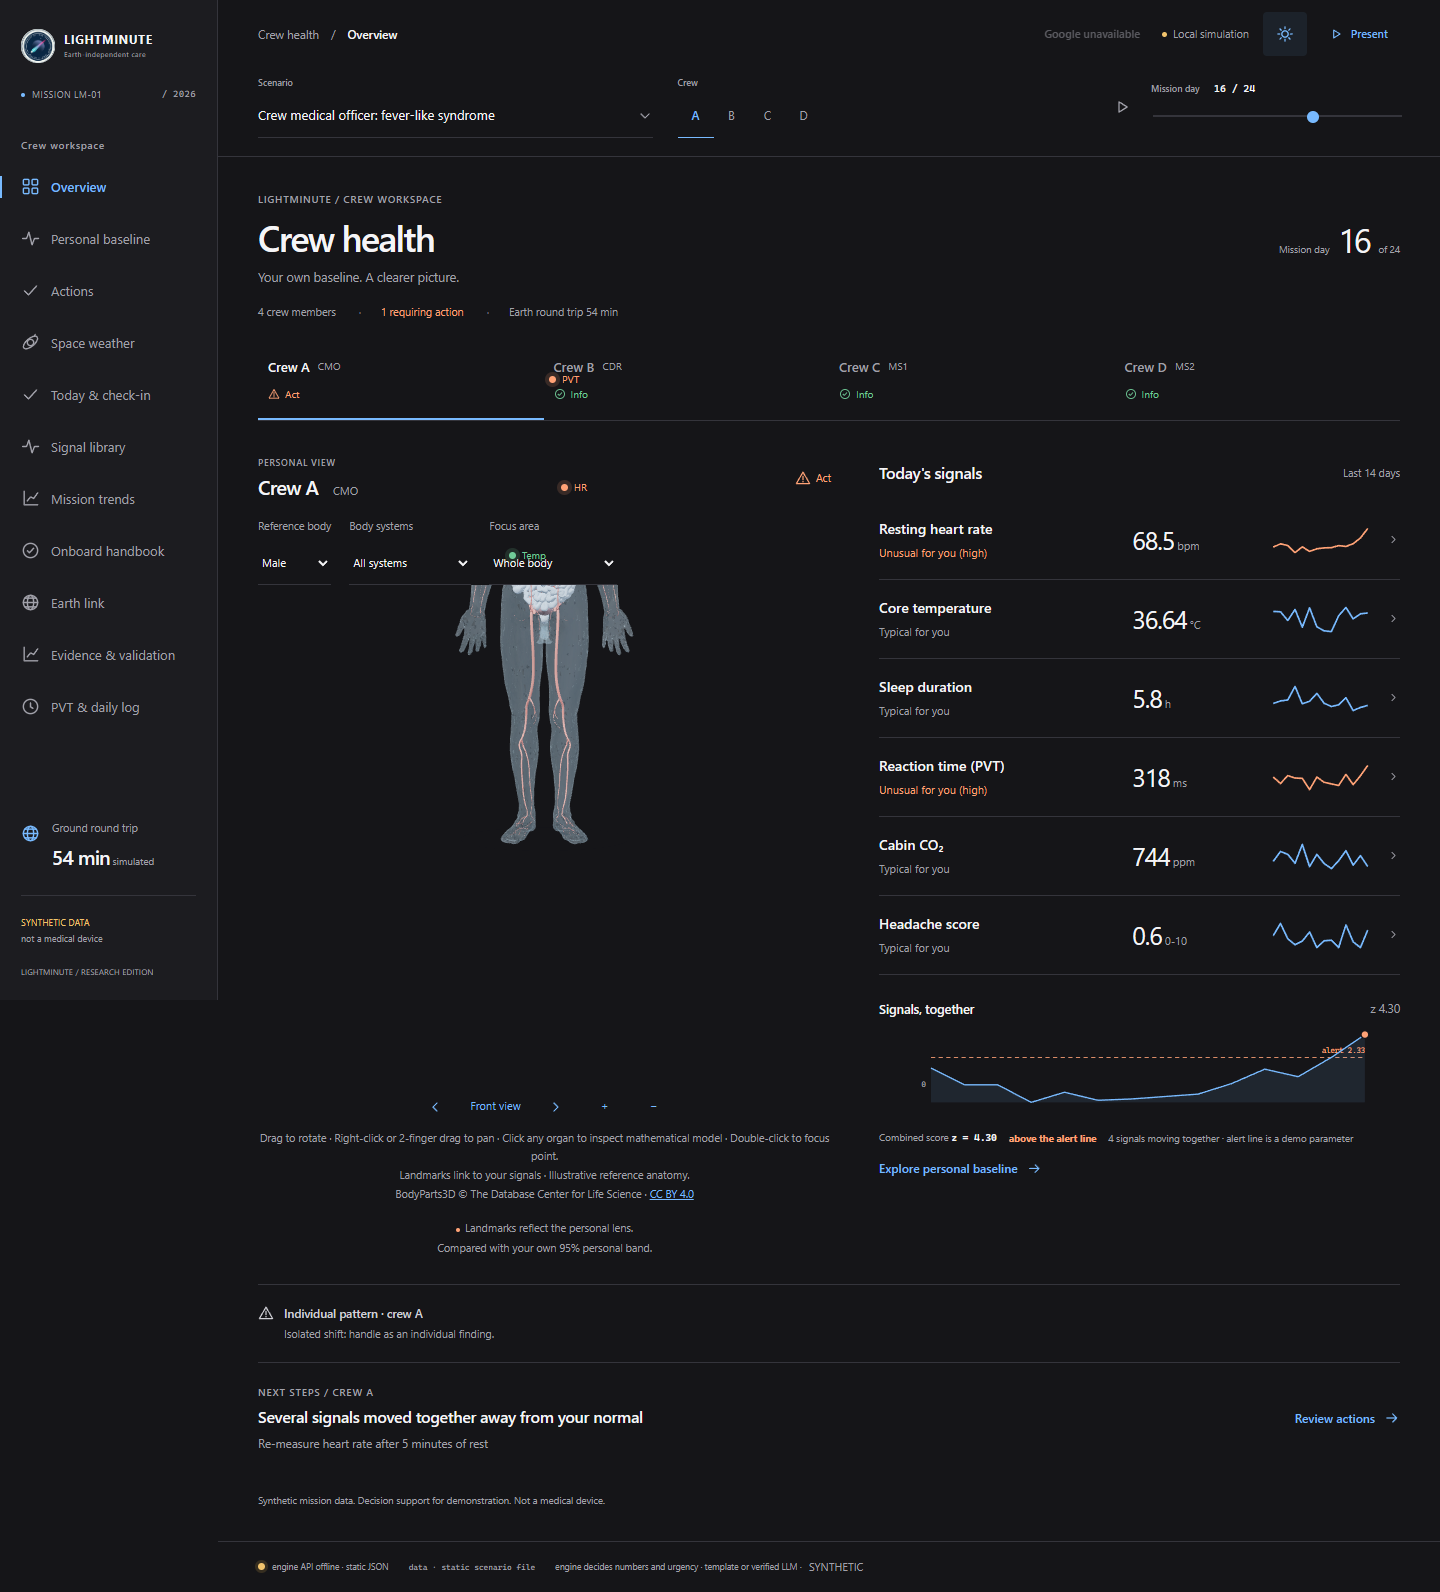
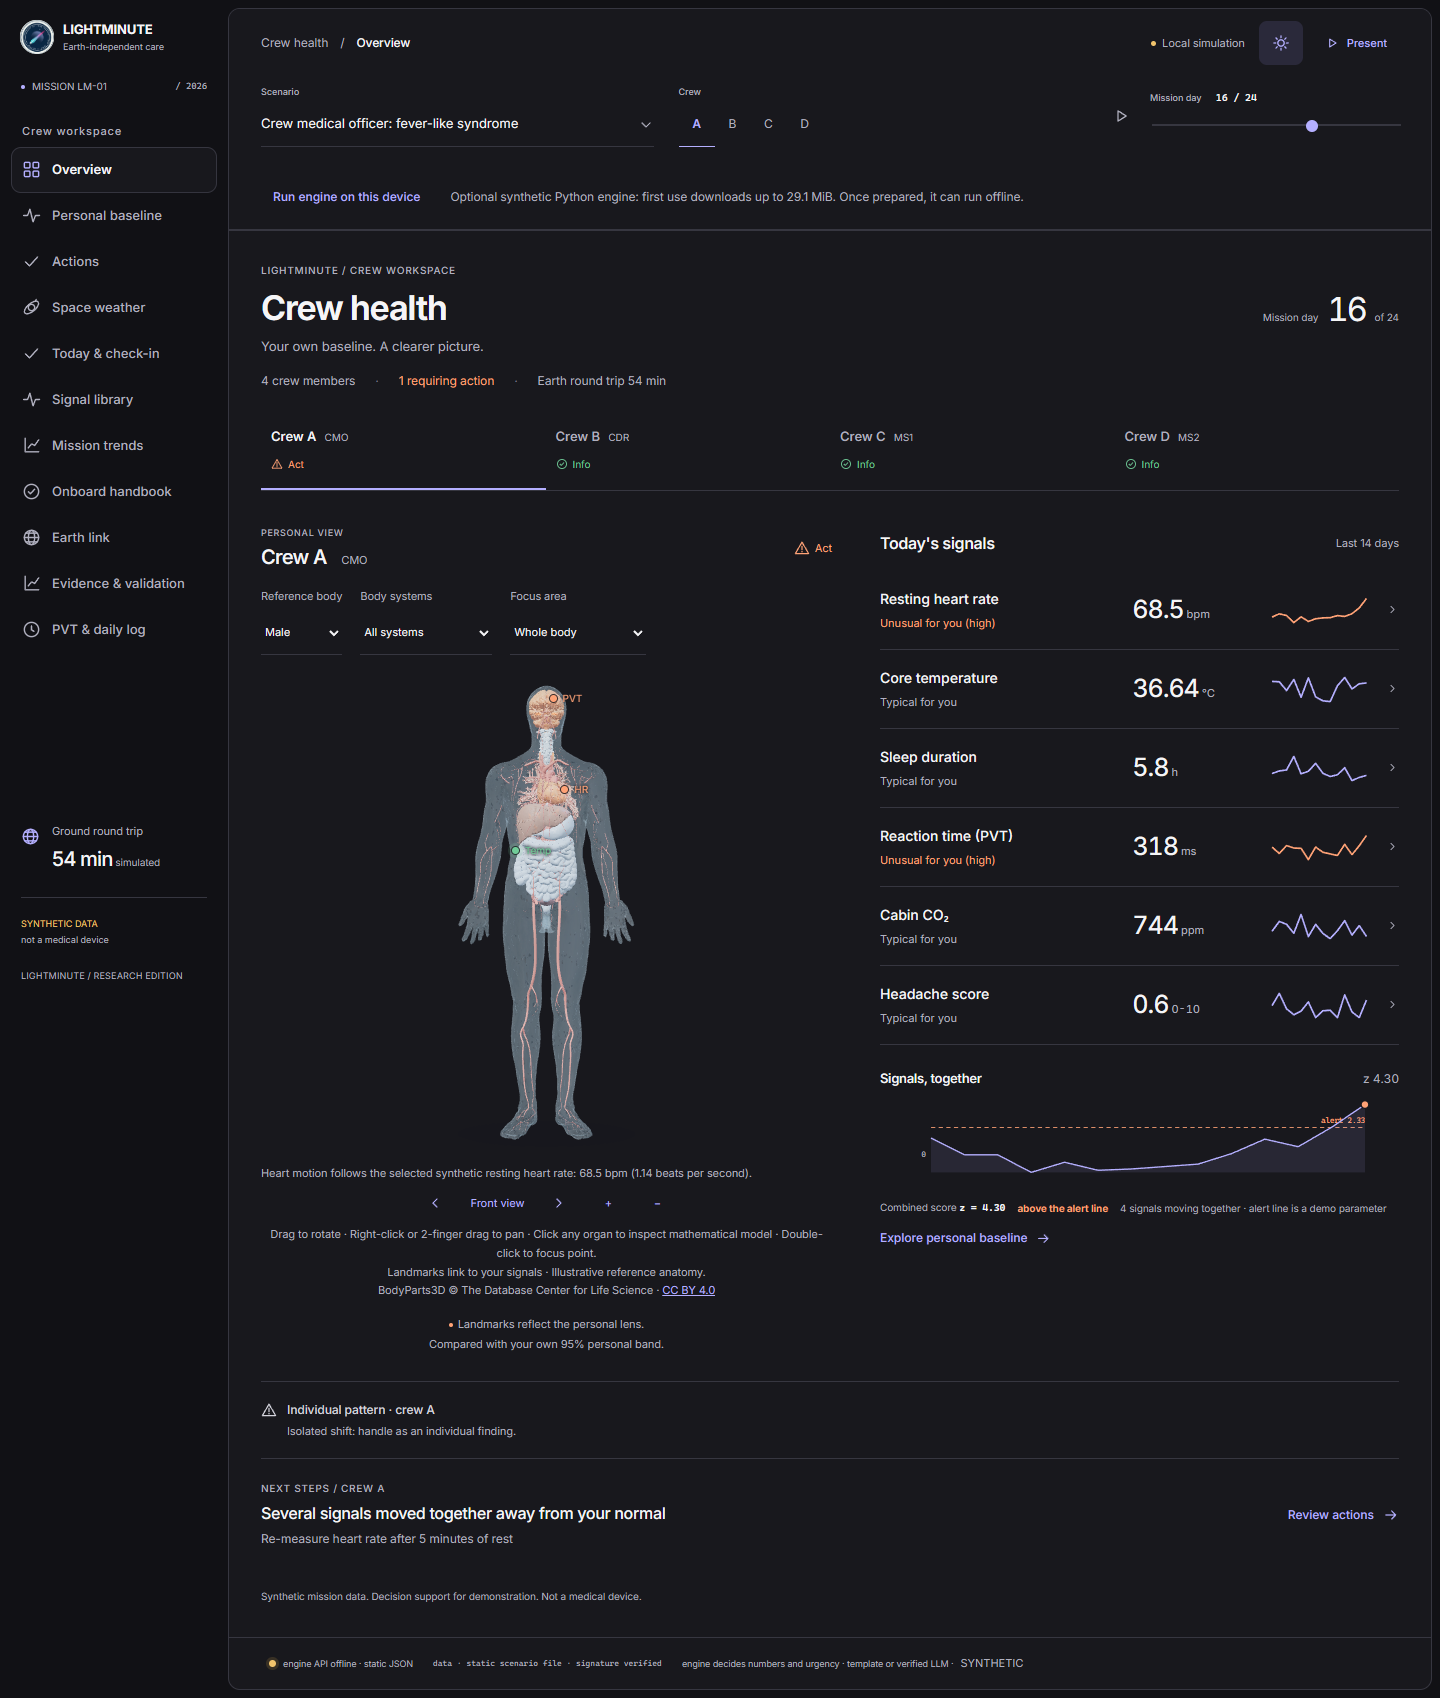
fix(anatomy): preserve organ geometry and correct body framing and focus

diff --git a/apps/crew-tablet/src/components/BodyModel3D.tsx b/apps/crew-tablet/src/components/BodyModel3D.tsx
@@ -1,4 +1,5 @@
 import { useEffect, useMemo, useRef, useState } from "react";
+import { Vector3 } from "three";
 import type { Mesh, Material, Object3D, SkinnedMesh, Group } from "three";
 import { indicatorMeta, REGION_LABEL, RISK_REGION, type BodyRegion } from "../lib/meta";
 import type { Reading } from "../lib/types";
@@ -537,7 +538,14 @@ export function BodyModel3D({
           const height = host.clientHeight;
           if (!width || !height || stopped) return;
           camera.aspect = width / height;
-          camera.position.setLength(Math.max(5.3, 3.25 / Math.max(0.55, camera.aspect)));
+          // Fit around the orbit target. Scaling the position from the world
+          // origin lifted the camera above its target and clipped the head.
+          const halfFov = T.MathUtils.degToRad(camera.fov / 2);
+          const distance = Math.max(1.58 / Math.tan(halfFov),
+            0.68 / (Math.tan(halfFov) * camera.aspect));
+          const offset = camera.position.clone().sub(controls.target).normalize();
+          camera.position.copy(controls.target).addScaledVector(offset, distance);
+          controls.update();
           camera.updateProjectionMatrix();
           renderer.setSize(width, height, false);
           render();
@@ -682,8 +690,15 @@ export function BodyModel3D({
               if (!stopped && uterusGltf?.scene) {
                 const uterusGroup = uterusGltf.scene;
                 uterusGroup.name = "uterus";
-                // Pelvic cavity position in Visible Human female
-                uterusGroup.position.set(-0.01, 0.82, 0.02);
+                // Register the separate reference by its bounds, preserving its
+                // metre scale. GLB origin is not the anatomical centre.
+                const bounds = new T.Box3().setFromObject(uterusGroup);
+                const centre = bounds.getCenter(new T.Vector3());
+                const bladder = reference.organs.find(organ => organ.name === "urinary bladder")?.center;
+                if (!bladder || bounds.isEmpty()) throw new Error("Missing pelvic registration reference");
+                uterusGroup.position.add(new T.Vector3(
+                  bladder[0], bladder[1] + 0.025, bladder[2] - 0.04
+                ).sub(centre));
                 uterusGroup.traverse((child) => {
                   if ((child as Mesh).isMesh) {
                     const m = child as Mesh;
@@ -1061,7 +1076,7 @@ export function BodyModel3D({
                        name.toLowerCase().includes(o.name.toLowerCase())
               );
               if (item) {
-                const p = item.mesh.position;
+                const p = item.mesh.getWorldPosition(new Vector3());
                 control.current?.focusToPoint([p.x, p.y, p.z], 1.6);
               }
             }}
@@ -1072,7 +1087,7 @@ export function BodyModel3D({
               );
               setSelectedOrgan(name);
               if (item) {
-                const p = item.mesh.position;
+                const p = item.mesh.getWorldPosition(new Vector3());
                 setSelectedCentroid([p.x, p.y, p.z]);
               } else {
                 setSelectedCentroid(undefined);

diff --git a/apps/crew-tablet/src/components/OrganHologram3D.tsx b/apps/crew-tablet/src/components/OrganHologram3D.tsx
@@ -185,7 +185,9 @@ export function OrganHologram3D({
       setLoading(true);
 
       try {
-        if (glbFile) {
+        // The selected body's geometry preserves side, shape and reference
+        // provenance. Standalone assets are used only when that mesh is absent.
+        if (glbFile && !fallbackGeometry?.attributes?.position) {
           setAssetType("glb");
           const glbUrl = `${import.meta.env.BASE_URL}assets/organs/${glbFile}`;
 
@@ -239,8 +241,6 @@ export function OrganHologram3D({
           const box = new THREE.Box3().setFromObject(modelScene);
           const center = new THREE.Vector3();
           box.getCenter(center);
-          modelScene.position.sub(center);
-
           const size = new THREE.Vector3();
           box.getSize(size);
           const maxDim = Math.max(size.x, size.y, size.z);
@@ -248,6 +248,8 @@ export function OrganHologram3D({
             modelScene.scale.multiplyScalar(1.65 / maxDim);
           }
 
+          // Translation must follow scale: the source centre also scales.
+          modelScene.position.sub(center.multiplyScalar(maxDim > 0 ? 1.65 / maxDim : 1));
           pivot.add(modelScene);
         } else if (fallbackGeometry && fallbackGeometry.attributes?.position) {
           // Geometry from body anatomy.json/bin
@@ -284,13 +286,13 @@ export function OrganHologram3D({
             if (geom.boundingBox) {
               const center = new THREE.Vector3();
               geom.boundingBox.getCenter(center);
-              mesh.position.sub(center);
               const size = new THREE.Vector3();
               geom.boundingBox.getSize(size);
               const maxDim = Math.max(size.x, size.y, size.z);
               if (maxDim > 0) {
                 mesh.scale.multiplyScalar(1.6 / maxDim);
               }
+              mesh.position.sub(center.multiplyScalar(maxDim > 0 ? 1.6 / maxDim : 1));
             }
 
             pivot.add(mesh);

diff --git a/docs/qa/anatomy-review.md b/docs/qa/anatomy-review.md
@@ -1,0 +1,16 @@
+# Revisión local de la anatomía
+
+Se integró origin/main mediante avance directo hasta ce94890 antes de esta revisión.
+
+- El enfoque desde el panel usa coordenadas mundiales del órgano. Esto incluye la escala del cuerpo y las transformaciones de los grupos anidados.
+- El visor ampliado prioriza la geometría del órgano seleccionado en el cuerpo. Así conserva la distinción entre pulmón izquierdo y derecho y entre las referencias masculina y femenina.
+- El centrado del visor ampliado aplica la misma escala al desplazamiento del centro.
+- La cámara encuadra alrededor del punto de órbita y calcula la distancia según el campo de visión y el aspecto del contenedor.
+- La referencia independiente del útero conserva su escala y se coloca tomando la vejiga como referencia pélvica. Su registro es aproximado. La posición añadida no constituye una segmentación del mismo donante ni una validación anatómica.
+- La captura de referencia restablece la cámara después de las pruebas de zoom.
+
+La geometría original de los demás órganos y sus relaciones espaciales proceden del archivo anatomy.bin y se conservan. Esta revisión corrige transformaciones de visualización. La correspondencia anatómica completa requiere revisión especializada.
+
+Verificación local mediante npm run build y LIGHTMINUTE_SKIP_API=1 npm run test:e2e. Los registros están en anatomy-build.log y anatomy-browser.log. La compilación comprueba las ocho firmas de escenarios. Las capturas se generan en docs/screenshots.
+
+La actualización requirió npm ci para instalar las dependencias incorporadas por el merge. Se detuvo el servidor Vite local para liberar los binarios de Rollup bloqueados por Windows.
